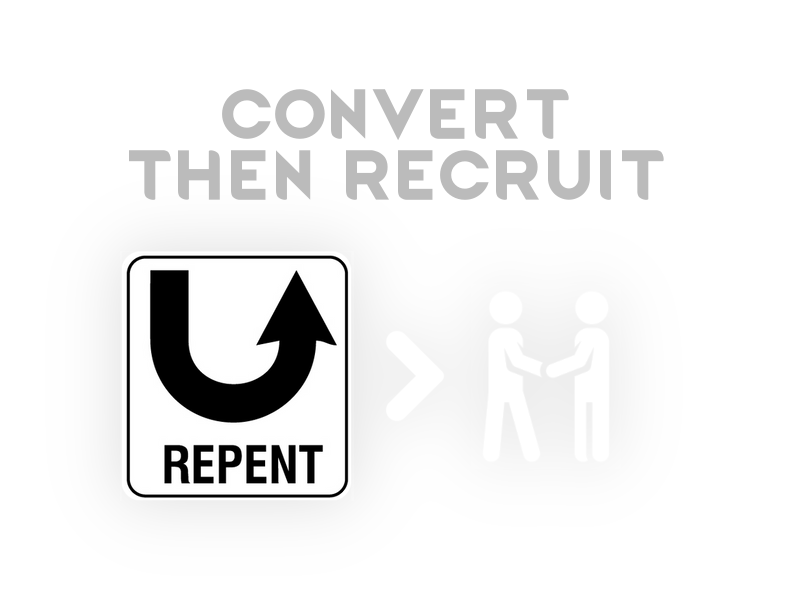
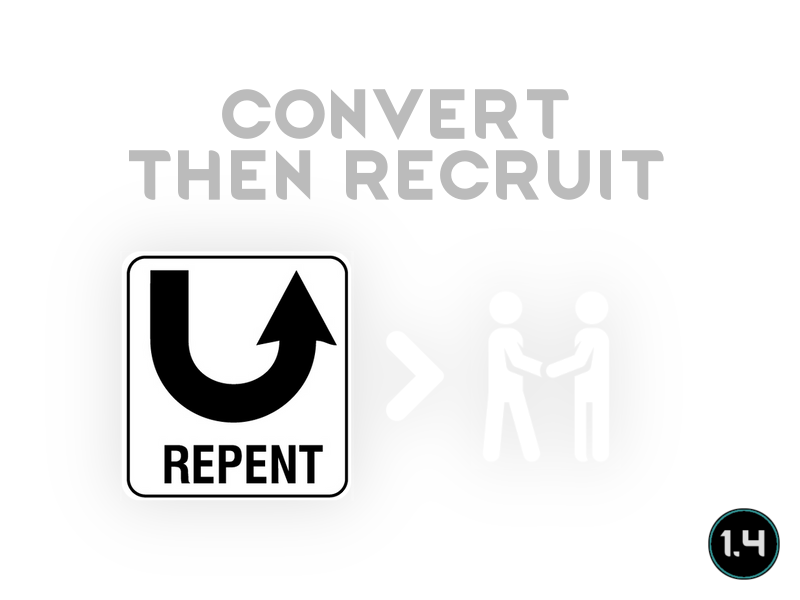
End of life, will only update Custom Prisoner Interactions from now on

Changed region(s): [[0.875, 0.84, 1.0, 0.99]]

diff --git a/README.md b/README.md
@@ -1,6 +1,6 @@
 # ConvertThenRecruit
 
-![Image](https://i.imgur.com/buuPQel.png)
+![Image](https://i.imgur.com/iCj5o7O.png)
 
 
 Adds a prisoner-interaction to first convert prisoner and then recruit them.
@@ -26,25 +26,26 @@ Turkish translation by: Kegrine
 German translation by: mezen
 Japanese translation from: https://rimworld.2game.info/detail.php?id=2702584632]RimWorld Mod database
 
-![Image](https://i.imgur.com/O0IIlYj.png)
+![Image](https://i.imgur.com/Ds0rBAD.png)
 
 Since modding is just a hobby for me I expect no donations to keep modding. If you still want to show your support you can gift me anything from my https://store.steampowered.com/wishlist/id/Mlie]Wishlist or buy me a cup of tea.
 
-https://ko-fi.com/G2G55DDYD]![Image](https://i.imgur.com/Utx6OIH.png)
+https://ko-fi.com/G2G55DDYD]![Image](https://i.imgur.com/VWG0yff.png)
 
 
-![Image](https://i.imgur.com/PwoNOj4.png)
+![Image](https://i.imgur.com/5xwDG6H.png)
 
 
 
 -  See if the the error persists if you just have this mod and its requirements active.
 -  If not, try adding your other mods until it happens again.
--  Post your error-log using https://steamcommunity.com/workshop/filedetails/?id=818773962]HugsLib and command Ctrl+F12
+-  Post your error-log using https://steamcommunity.com/workshop/filedetails/?id=818773962]HugsLib or the standalone https://steamcommunity.com/sharedfiles/filedetails/?id=2873415404]Uploader and command Ctrl+F12
 -  For best support, please use the Discord-channel for error-reporting.
 -  Do not report errors by making a discussion-thread, I get no notification of that.
 -  If you have the solution for a problem, please post it to the GitHub repository.
+-  Use https://github.com/RimSort/RimSort/releases/latest]RimSort to sort your mods
 
 
 
+https://steamcommunity.com/sharedfiles/filedetails/changelog/2702584632]![Image](https://img.shields.io/github/v/release/emipa606/ConvertThenRecruit?label=latest%20version&style=plastic&labelColor=0070cd&color=white)
 
-https://steamcommunity.com/sharedfiles/filedetails/changelog/2702584632]Last updated 2023-02-28
